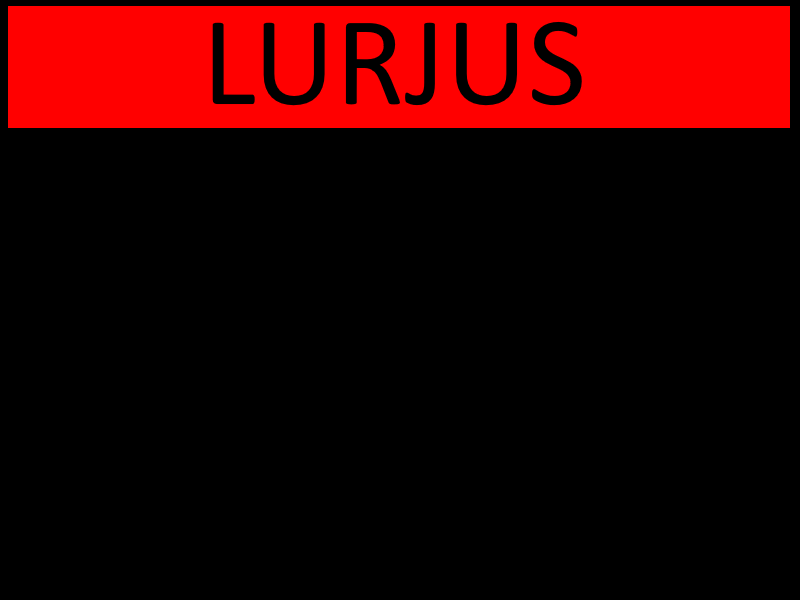
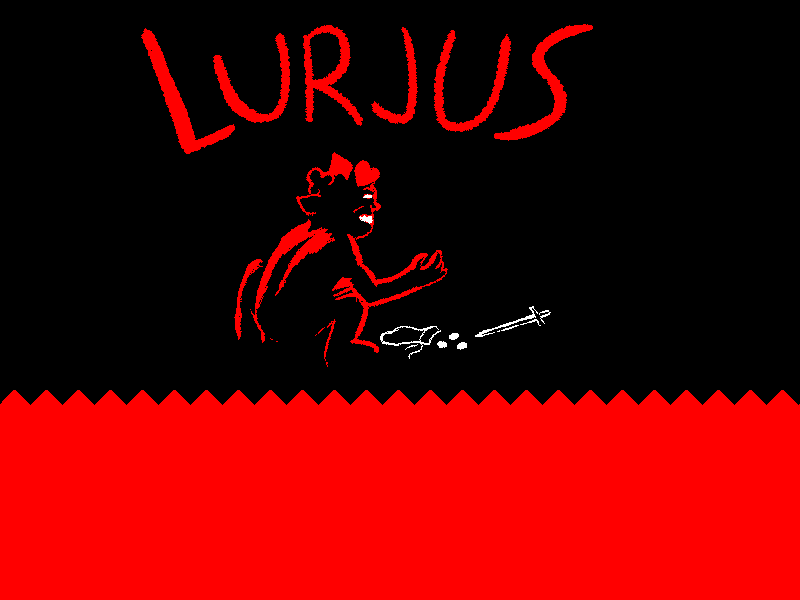
Uusi päävalikko ja napit

diff --git a/peli.py b/peli.py
@@ -302,12 +302,12 @@ def piirra_kaikki(skene):
 
     if skene == "PaaValikko":
         paaValikko.piirrä(PIIRTOALUSTA)
-        kampanja_nappi.piirrä(PIIRTOALUSTA, 200, 225)
-        pikapeli_nappi.piirrä(PIIRTOALUSTA, 600, 225)
-        tutoriaali_nappi.piirrä(PIIRTOALUSTA, 200, 375)
-        asetukset_nappi.piirrä(PIIRTOALUSTA, 600, 375)
-        tekijät_nappi.piirrä(PIIRTOALUSTA, 200, 525)
-        lopeta_nappi.piirrä(PIIRTOALUSTA, 600, 525)
+        kampanja_nappi.piirrä(PIIRTOALUSTA, 660, 480)
+        pikapeli_nappi.piirrä(PIIRTOALUSTA, 400, 480)
+        tutoriaali_nappi.piirrä(PIIRTOALUSTA, 140, 480)
+        asetukset_nappi.piirrä(PIIRTOALUSTA, 400, 565)
+        tekijät_nappi.piirrä(PIIRTOALUSTA, 140, 565)
+        lopeta_nappi.piirrä(PIIRTOALUSTA, 660, 565)
         pygame.display.flip()
         
     elif skene == "Pikapeli":
